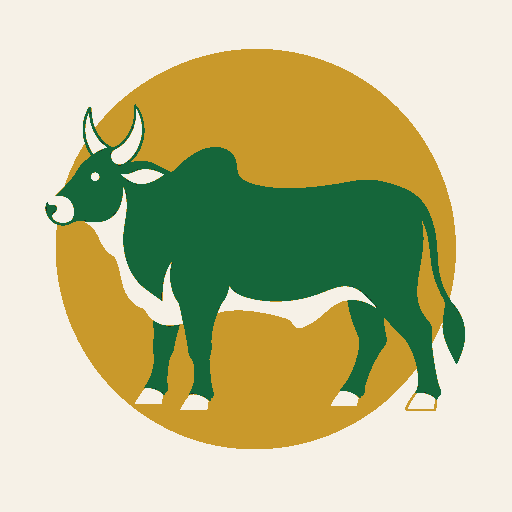
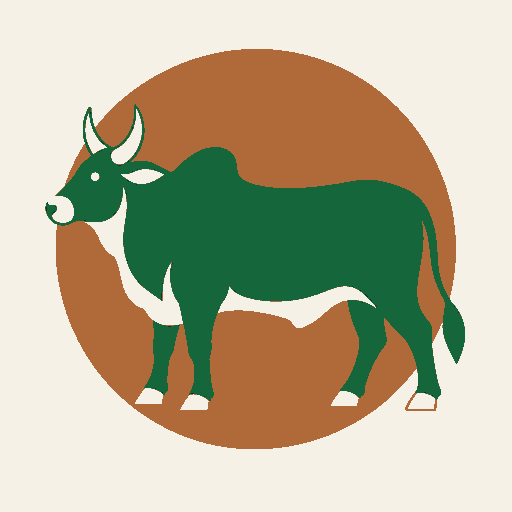
Give every category its own artwork and colour
The category row looked repetitive because it WAS repetitive: 8 of 13 categories
shared an image. Buffalo reused Cattle, Bike reused Cars, and Fruit, Seeds and
Other all reused Produce. On top of that every circle was the same gold, so even
the genuinely different animals read as one blob at tile size.

- Generated five new illustrations in the same house style, each deliberately
  distinguishable from the one it used to duplicate: a water buffalo with
  backward-sweeping crescent horns (not short cow horns), whole tropical fruit
  (not leafy produce), a seed pouch with sprouts (not a feed sack), a
  motorcycle (not a car), and a plain shipping box.
- Recoloured the eight original circles to their own hue, keeping the local
  shading so the art is untouched: goats keep brand gold as the hero category,
  then sage, clay, slate, brick, olive, teal, terracotta, brown, steel, indigo,
  blue and violet. Colour is the fastest way to tell categories apart for users
  who may not read the label.
- Cars and Bikes are now separate labels rather than one "Vehicles" entry, and
  Vegetables is named properly instead of sharing "Produce".

9/9 browser assertions: 13 tiles, 13 DISTINCT images, each new category serving
its own art, no broken images, and 13 distinct labels.

sw.js CACHE -> v19, assets ?v=19, new art precached.

Claude-Session: https://claude.ai/code/session_01M8G9HJS2jEWy8TD7k8ftD2

diff --git a/js/app.js b/js/app.js
@@ -81,17 +81,17 @@
   var CATS = [
     {k:"goat",art:"assets/cat/cat-goat.png",en:"Goats",ta:"\u0b86\u0b9f\u0bc1"},
     {k:"sheep",art:"assets/cat/cat-sheep.png",en:"Sheep",ta:"\u0b9a\u0bc6\u0bae\u0bcd\u0bae\u0bb1\u0bbf"},
-    {k:"cow",art:"assets/cat/cat-cattle.png",en:"Cattle",ta:"\u0b95\u0bbe\u0bb2\u0bcd\u0ba8\u0b9f\u0bc8"},
-    {k:"buffalo",art:"assets/cat/cat-cattle.png",en:"Buffalo",ta:"\u0b8e\u0bb0\u0bc1\u0bae\u0bc8"},
+    {k:"cow",art:"assets/cat/cat-cattle.png",en:"Cattle",ta:"\u0baa\u0b9a\u0bc1"},
+    {k:"buffalo",art:"assets/cat/cat-buffalo.png",en:"Buffalo",ta:"\u0b8e\u0bb0\u0bc1\u0bae\u0bc8"},
     {k:"poultry",art:"assets/cat/cat-poultry.png",en:"Poultry",ta:"\u0b95\u0bcb\u0bb4\u0bbf"},
     {k:"feed",art:"assets/cat/cat-feed.png",en:"Feed",ta:"\u0ba4\u0bc0\u0bb5\u0ba9\u0bae\u0bcd"},
-    {k:"vegetables",art:"assets/cat/cat-produce.png",en:"Produce",ta:"\u0b95\u0bbe\u0baf\u0bcd\u0b95\u0bb1\u0bbf"},
-    {k:"fruit",art:"assets/cat/cat-produce.png",en:"Fruit",ta:"\u0baa\u0bb4\u0bae\u0bcd"},
-    {k:"seeds",art:"assets/cat/cat-feed.png",en:"Seeds",ta:"\u0bb5\u0bbf\u0ba4\u0bc8"},
+    {k:"vegetables",art:"assets/cat/cat-produce.png",en:"Vegetables",ta:"\u0b95\u0bbe\u0baf\u0bcd\u0b95\u0bb1\u0bbf"},
+    {k:"fruit",art:"assets/cat/cat-fruit.png",en:"Fruit",ta:"\u0baa\u0bb4\u0bae\u0bcd"},
+    {k:"seeds",art:"assets/cat/cat-seeds.png",en:"Seeds",ta:"\u0bb5\u0bbf\u0ba4\u0bc8"},
     {k:"machinery",art:"assets/cat/cat-machinery.png",en:"Machinery",ta:"\u0b87\u0baf\u0ba8\u0bcd\u0ba4\u0bbf\u0bb0\u0bae\u0bcd"},
-    {k:"car",art:"assets/cat/cat-vehicle.png",en:"Vehicles",ta:"\u0bb5\u0bbe\u0b95\u0ba9\u0bae\u0bcd"},
-    {k:"bike",art:"assets/cat/cat-vehicle.png",en:"Bikes",ta:"\u0baa\u0bc8\u0b95\u0bcd"},
-    {k:"other",art:"assets/cat/cat-produce.png",en:"Other",ta:"\u0bae\u0bb1\u0bcd\u0bb1\u0bb5\u0bc8"}
+    {k:"car",art:"assets/cat/cat-vehicle.png",en:"Cars",ta:"\u0b95\u0bbe\u0bb0\u0bcd"},
+    {k:"bike",art:"assets/cat/cat-bike.png",en:"Bikes",ta:"\u0baa\u0bc8\u0b95\u0bcd"},
+    {k:"other",art:"assets/cat/cat-other.png",en:"Other",ta:"\u0bae\u0bb1\u0bcd\u0bb1\u0bb5\u0bc8"}
   ];
   var catMeta = function(k){ for(var i=0;i<CATS.length;i++) if(CATS[i].k===k) return CATS[i]; return CATS[CATS.length-1]; };
 

diff --git a/sw.js b/sw.js
@@ -1,11 +1,11 @@
 /* Namma Santhai service worker — NETWORK-FIRST, cache fallback.
    Bump CACHE on every deploy or the phone serves stale files. */
-const CACHE = 'namma-santhai-v18';
+const CACHE = 'namma-santhai-v19';
 const ASSETS = [
   './', './index.html', './css/styles.css', './js/app.js', './js/api.js',
   './manifest.json', './assets/temple.svg', './assets/share-card.jpg', './assets/empty-listings.png', './assets/logo-badge.png',
   './assets/logo-lockup.png', './assets/logo-lockup-light.png',
-  './assets/cat/cat-goat.png', './assets/cat/cat-sheep.png', './assets/cat/cat-cattle.png',
+  './assets/cat/cat-goat.png', './assets/cat/cat-other.png', './assets/cat/cat-bike.png', './assets/cat/cat-seeds.png', './assets/cat/cat-fruit.png', './assets/cat/cat-buffalo.png', './assets/cat/cat-sheep.png', './assets/cat/cat-cattle.png',
   './assets/cat/cat-poultry.png', './assets/cat/cat-feed.png', './assets/cat/cat-produce.png',
   './assets/cat/cat-machinery.png', './assets/cat/cat-vehicle.png',
   './icons/icon-192.png', './icons/icon-512.png'

diff --git a/index.html b/index.html
@@ -37,7 +37,7 @@
 <link rel="preconnect" href="https://fonts.googleapis.com">
 <link rel="preconnect" href="https://fonts.gstatic.com" crossorigin>
 <link href="https://fonts.googleapis.com/css2?family=Playfair+Display:wght@700;800&family=Noto+Sans:wght@400;600;700;800&family=Noto+Sans+Tamil:wght@400;600;700;800&display=swap" rel="stylesheet">
-<link rel="stylesheet" href="css/styles.css?v=18">
+<link rel="stylesheet" href="css/styles.css?v=19">
 </head>
 <body>
 
@@ -70,7 +70,7 @@
   <div class="toast" id="toast" role="status"></div>
 </div>
 
-<script src="js/api.js?v=18"></script>
-<script src="js/app.js?v=18"></script>
+<script src="js/api.js?v=19"></script>
+<script src="js/app.js?v=19"></script>
 </body>
 </html>
